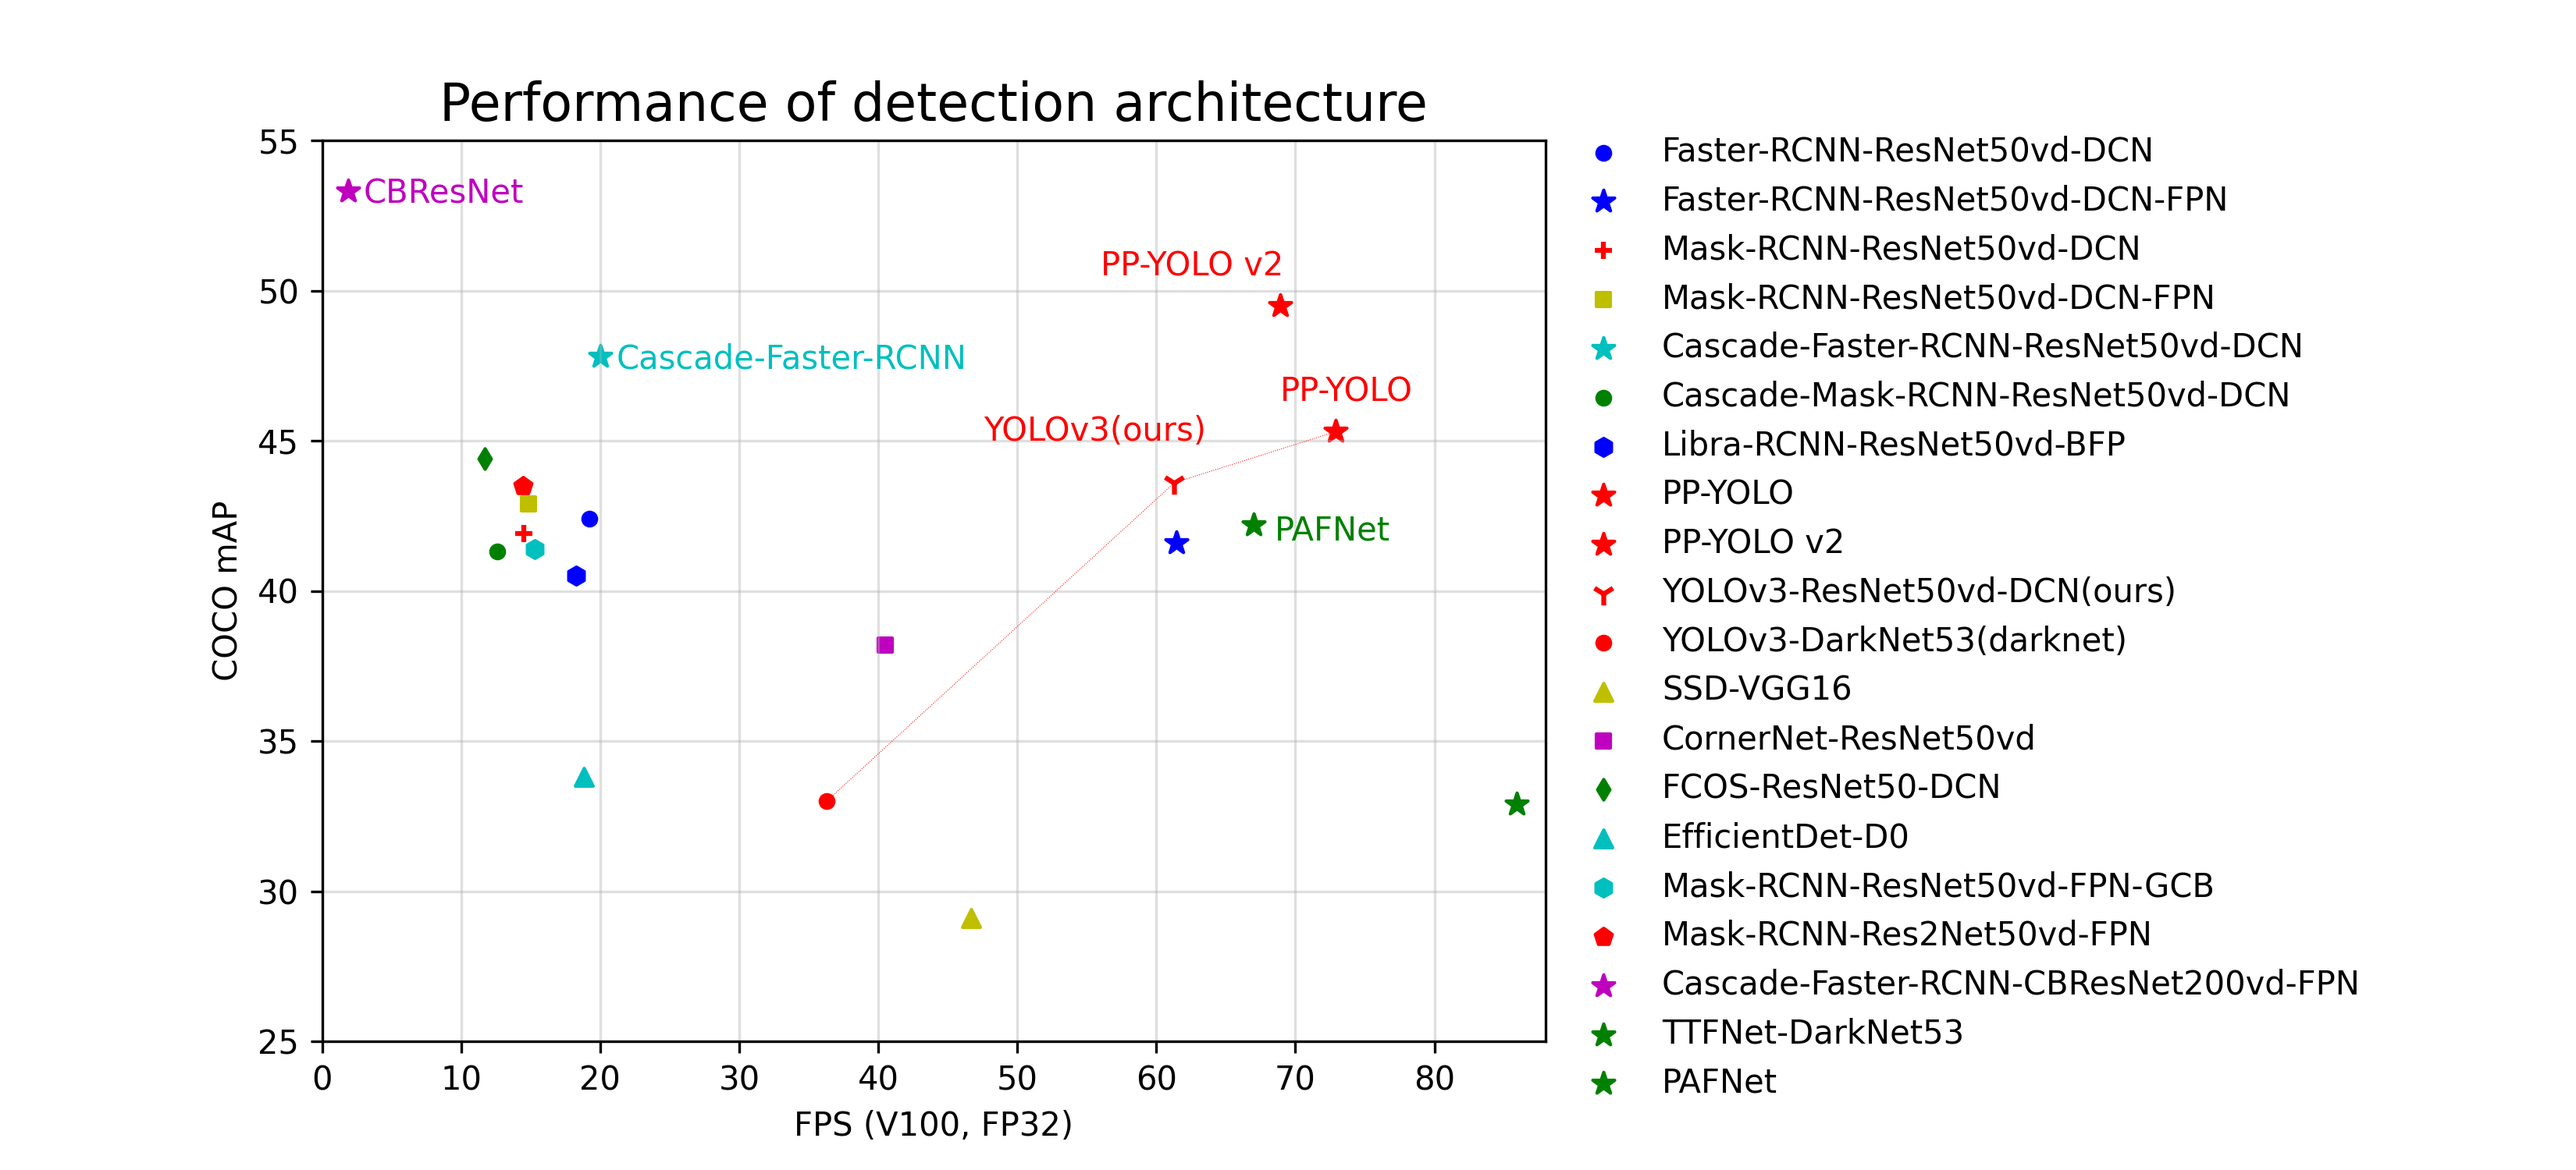
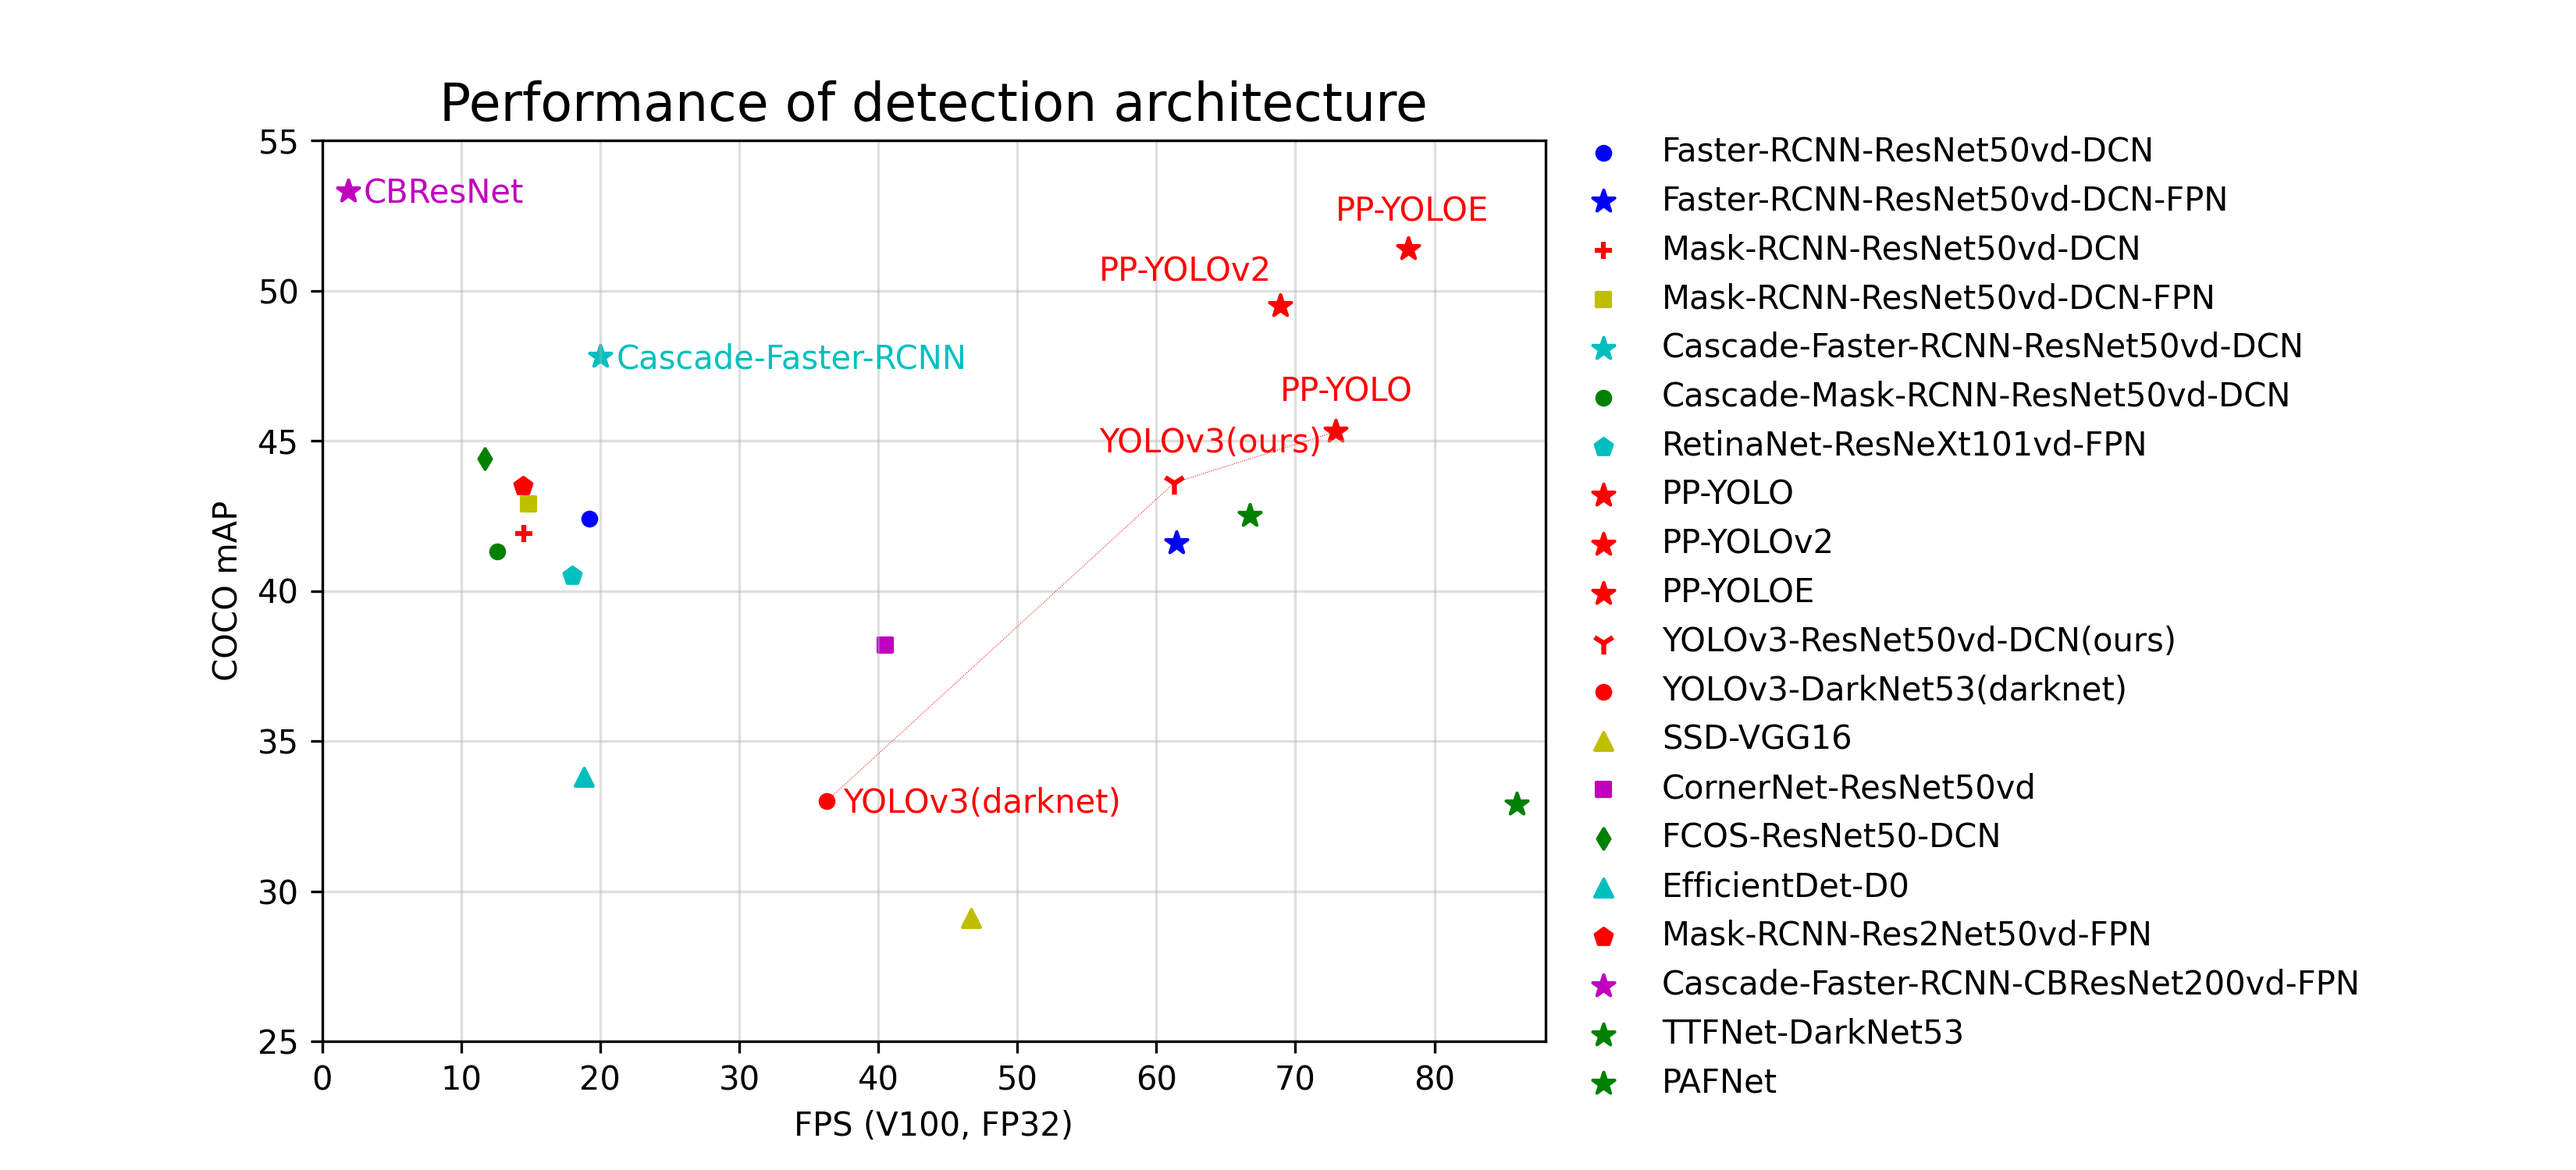
update readme, add yoloe (#5703)

diff --git a/README_cn.md b/README_cn.md
@@ -17,13 +17,13 @@
 ## <img src="https://user-images.githubusercontent.com/48054808/157793354-6e7f381a-0aa6-4bb7-845c-9acf2ecc05c3.png" width="20"/> 产品动态
 
 - 🔥 **2022.3.24：PaddleDetection发布[release/2.4版本](https://github.com/PaddlePaddle/PaddleDetection/tree/release/2.4)**
-  
+
   - 发布高精度云边一体SOTA目标检测模型[PP-YOLOE](configs/ppyoloe)，COCO数据集精度51.4%，V100预测速度78.1 FPS，支持混合精度训练，训练较PP-YOLOv2加速33%，全系列多尺度模型，满足不同硬件算力需求，可适配服务器、边缘端GPU及其他服务器端AI加速卡。
   - 发布边缘端和CPU端超轻量SOTA目标检测模型[PP-PicoDet增强版](configs/picodet)，精度提升2%左右，CPU预测速度提升63%，新增参数量0.7M的PicoDet-XS模型，提供模型稀疏化和量化功能，便于模型加速，各类硬件无需单独开发后处理模块，降低部署门槛。
   - 发布实时行人分析工具[PP-Human](deploy/pphuman)，支持行人跟踪、人流量统计、人体属性识别与摔倒检测四大能力，基于真实场景数据特殊优化，精准识别各类摔倒姿势，适应不同环境背景、光线及摄像角度。
 
 - 2021.11.03: PaddleDetection发布[release/2.3版本](https://github.com/PaddlePaddle/PaddleDetection/tree/release/2.3)
-  
+
   - 发布轻量级检测特色模型⚡[PP-PicoDet](configs/picodet)，0.99m的参数量可实现精度30+mAP、速度150FPS。
   - 发布轻量级关键点特色模型⚡[PP-TinyPose](configs/keypoint/tiny_pose)，单人场景FP16推理可达122FPS、51.8AP，具有精度高速度快、检测人数无限制、微小目标效果好的优势。
   - 发布实时跟踪系统[PP-Tracking](deploy/pptracking)，覆盖单、多镜头下行人、车辆、多类别跟踪，对小目标、密集型特殊优化，提供人、车流量技术解决方案。
@@ -32,13 +32,13 @@
   - 新增轻量化关键点模型[Lite HRNet](configs/keypoint)关键点模型并支持Paddle Lite部署。
 
 - 2021.08.10: PaddleDetection发布[release/2.2版本](https://github.com/PaddlePaddle/PaddleDetection/tree/release/2.2)
-  
+
   - 发布Transformer检测系列模型，包括[DETR](configs/detr), [Deformable DETR](configs/deformable_detr), [Sparse RCNN](configs/sparse_rcnn)。
   - 新增Dark HRNet关键点模型和MPII数据集[关键点模型](configs/keypoint)
   - 新增[人头](configs/mot/headtracking21)、[车辆](configs/mot/vehicle)跟踪垂类模型。
 
 - 2021.05.20: PaddleDetection发布[release/2.1版本](https://github.com/PaddlePaddle/PaddleDetection/tree/release/2.1)
-  
+
   - 新增[关键点检测](configs/keypoint)，模型包括HigherHRNet，HRNet。
   - 新增[多目标跟踪](configs/mot)能力，模型包括DeepSORT，JDE，FairMOT。
   - 发布PPYOLO系列模型压缩模型，新增[ONNX模型导出教程](deploy/EXPORT_ONNX_MODEL.md)。
@@ -71,7 +71,7 @@
 - 如果你发现任何PaddleDetection存在的问题或者是建议, 欢迎通过[GitHub Issues](https://github.com/PaddlePaddle/PaddleDetection/issues)给我们提issues。
 
 - 欢迎加入PaddleDetection QQ、微信（添加并回复小助手“检测”）用户群
-  
+
   <div align="center">
   <img src="https://user-images.githubusercontent.com/48054808/157800129-2f9a0b72-6bb8-4b10-8310-93ab1639253f.jpg"  width = "200" />  
   <img src="https://user-images.githubusercontent.com/48054808/160531099-9811bbe6-cfbb-47d5-8bdb-c2b40684d7dd.png"  width = "200" />  
@@ -244,6 +244,7 @@
 - `Cascade-Faster-RCNN`为`Cascade-Faster-RCNN-ResNet50vd-DCN`，PaddleDetection将其优化到COCO数据mAP为47.8%时推理速度为20FPS
 - `PP-YOLO`在COCO数据集精度45.9%，Tesla V100预测速度72.9FPS，精度速度均优于[YOLOv4](https://arxiv.org/abs/2004.10934)
 - `PP-YOLO v2`是对`PP-YOLO`模型的进一步优化，在COCO数据集精度49.5%，Tesla V100预测速度68.9FPS
+- `PP-YOLOE`是对`PP-YOLO v2`模型的进一步优化，在COCO数据集精度51.4%，Tesla V100预测速度78.1FPS
 - 图中模型均可在[模型库](#模型库)中获取
 
 各移动端模型在COCO数据集上精度mAP和高通骁龙865处理器上预测速度(FPS)对比图。
@@ -269,16 +270,16 @@
 ### 进阶教程
 
 - 参数配置
-  
+
   - [RCNN参数说明](docs/tutorials/config_annotation/faster_rcnn_r50_fpn_1x_coco_annotation.md)
   - [PP-YOLO参数说明](docs/tutorials/config_annotation/ppyolo_r50vd_dcn_1x_coco_annotation.md)
 
 - 模型压缩(基于[PaddleSlim](https://github.com/PaddlePaddle/PaddleSlim))
-  
+
   - [剪裁/量化/蒸馏教程](configs/slim)
 
 - [推理部署](deploy/README.md)
-  
+
   - [模型导出教程](deploy/EXPORT_MODEL.md)
   - [Paddle Inference部署](deploy/README.md)
     - [Python端推理部署](deploy/python)
@@ -289,7 +290,7 @@
   - [推理benchmark](deploy/BENCHMARK_INFER.md)
 
 - 进阶开发
-  
+
   - [数据处理模块](docs/advanced_tutorials/READER.md)
   - [新增检测模型](docs/advanced_tutorials/MODEL_TECHNICAL.md)
 

diff --git a/README_en.md b/README_en.md
@@ -17,7 +17,7 @@ English | [简体中文](README_cn.md)
 ## <img src="https://user-images.githubusercontent.com/48054808/157793354-6e7f381a-0aa6-4bb7-845c-9acf2ecc05c3.png" width="20"/> Latest News
 
 - 🔥 **2022.3.24：PaddleDetection [release 2.4 version](https://github.com/PaddlePaddle/PaddleDetection/tree/release/2.4)**
-  
+
   - Release GPU SOTA object detection series models (s/m/l/x) [PP-YOLOE](configs/ppyoloe), achieving mAP as 51.4% on COCO test dataset and 78.1 FPS on Nvidia V100, supporting AMP training and its training speed is 33% faster than PP-YOLOv2.
   - Release enhanced models of [PP-PicoDet](configs/picodet), including PP-PicoDet-XS model with 0.7M parameters, its mAP promoted ~2% on COCO, inference speed accelerated 63% on CPU, and post-processing integrated into the network to optimize deployment pipeline.
   - Release real-time human analysis tool [PP-Human](deploy/pphuman), which is based on data from real-life situations, supporting pedestrian detection, attribute recognition, human tracking, multi-camera tracking, human statistics and action recognition.
@@ -46,20 +46,20 @@ PaddleDetection is an end-to-end object detection development kit based on Paddl
 
 ## <img src="https://user-images.githubusercontent.com/48054808/157799599-e6a66855-bac6-4e75-b9c0-96e13cb9612f.png" width="20"/> Features
 
-- **Rich Models** 
-  
+- **Rich Models**
+
   PaddleDetection provides rich of models, including **250+ pre-trained models** such as **object detection**, **instance segmentation**, **face detection**, **keypoint detection**, **multi-object tracking** and etc, covering a variety of **global competition champion** schemes.
 
 - **Highly Flexible**
-  
+
   Components are designed to be modular. Model architectures, as well as data preprocess pipelines and optimization strategies, can be easily customized with simple configuration changes.
 
-- **Production Ready** 
-  
+- **Production Ready**
+
   From data augmentation, constructing models, training, compression, depolyment, get through end to end, and complete support for multi-architecture, multi-device deployment for **cloud and edge device**.
 
-- **High Performance** 
-  
+- **High Performance**
+
   Based on the high performance core of PaddlePaddle, advantages of training speed and memory occupation are obvious. FP16 training and multi-machine training are supported as well.
 
 ## <img title="" src="https://user-images.githubusercontent.com/48054808/157800467-2a9946ad-30d1-49a9-b9db-ba33413d9c90.png" alt="" width="20"> Community
@@ -67,7 +67,7 @@ PaddleDetection is an end-to-end object detection development kit based on Paddl
 - If you have any problem or suggestion on PaddleDetection, please send us issues through [GitHub Issues](https://github.com/PaddlePaddle/PaddleDetection/issues).
 
 - Welcome to Join PaddleDetection QQ Group and Wechat Group (reply "Det").
-  
+
   <div align="center">
   <img src="https://user-images.githubusercontent.com/48054808/157800129-2f9a0b72-6bb8-4b10-8310-93ab1639253f.jpg"  width = "200" />  
   <img src="https://user-images.githubusercontent.com/48054808/160531099-9811bbe6-cfbb-47d5-8bdb-c2b40684d7dd.png"  width = "200" />  
@@ -243,7 +243,7 @@ The relationship between COCO mAP and FPS on Tesla V100 of representative models
 - `PP-YOLO` achieves mAP of 45.9% on COCO and 72.9FPS on Tesla V100. Both precision and speed surpass [YOLOv4](https://arxiv.org/abs/2004.10934)
 
 - `PP-YOLO v2` is optimized version of `PP-YOLO` which has mAP of 49.5% and 68.9FPS on Tesla V100
-
+- `PP-YOLOE` is optimized version of `PP-YOLO v2` which has mAP of 51.4% and 78.1FPS on Tesla V100
 - All these models can be get in [Model Zoo](#ModelZoo)
 
 The relationship between COCO mAP and FPS on Qualcomm Snapdragon 865 of representative mobile side models.
@@ -268,16 +268,16 @@ The relationship between COCO mAP and FPS on Qualcomm Snapdragon 865 of represen
 ### Advanced Tutorials
 
 - Parameter configuration
-  
+
   - [Parameter configuration for RCNN model](docs/tutorials/config_annotation/faster_rcnn_r50_fpn_1x_coco_annotation_en.md)
   - [Parameter configuration for PP-YOLO model](docs/tutorials/config_annotation/ppyolo_r50vd_dcn_1x_coco_annotation_en.md)
 
 - Model Compression(Based on [PaddleSlim](https://github.com/PaddlePaddle/PaddleSlim))
-  
+
   - [Prune/Quant/Distill](configs/slim)
 
 - Inference and deployment
-  
+
   - [Export model for inference](deploy/EXPORT_MODEL_en.md)
   - [Paddle Inference](deploy/README_en.md)
     - [Python inference](deploy/python)
@@ -289,7 +289,7 @@ The relationship between COCO mAP and FPS on Qualcomm Snapdragon 865 of represen
   - [Exporting to ONNX and using OpenVINO for inference](docs/advanced_tutorials/openvino_inference/README.md)
 
 - Advanced development
-  
+
   - [New data augmentations](docs/advanced_tutorials/READER_en.md)
   - [New detection algorithms](docs/advanced_tutorials/MODEL_TECHNICAL.md)
 
